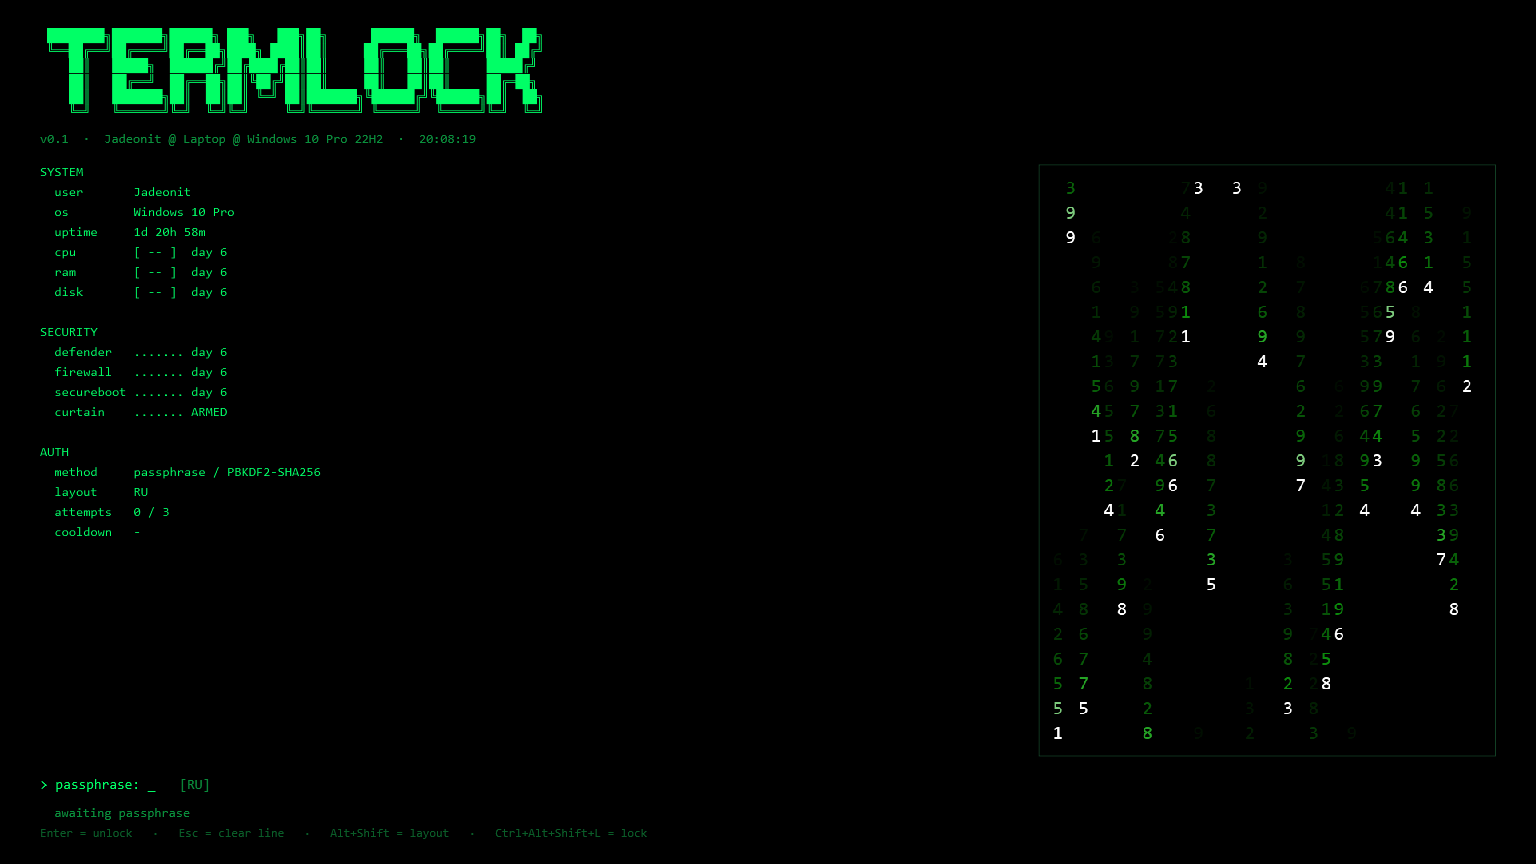
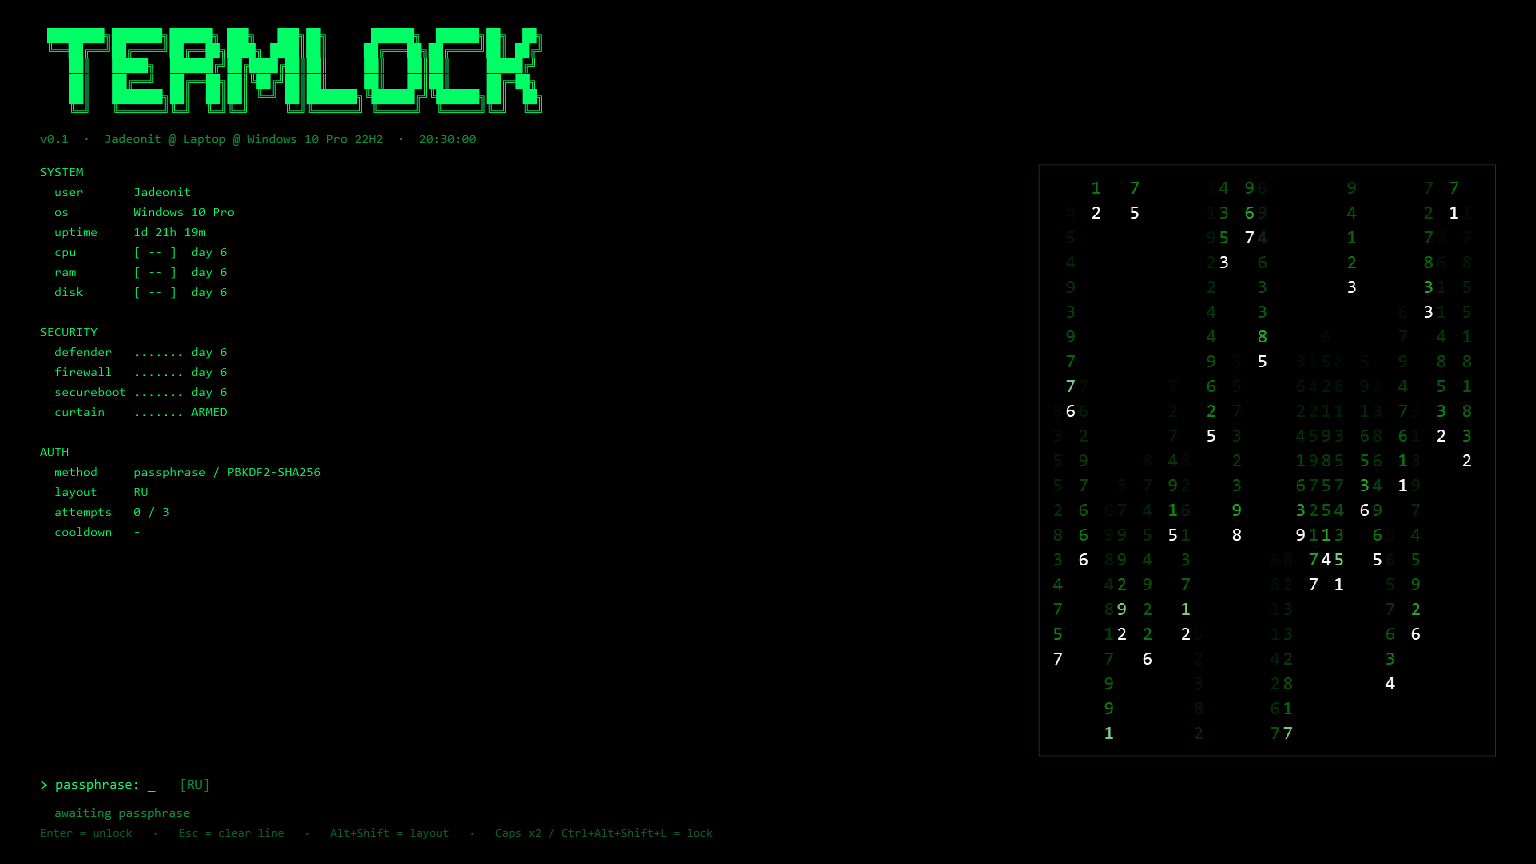
feat(guard): block escape keys and add double-Caps trigger
Install a low-level keyboard hook while the curtain is visible: swallow Win, Alt+Tab, Alt+F4, Ctrl+Esc and PrintScreen. Double-tap Caps Lock summons the curtain. Watchdog stays in the backlog.

diff --git a/src/TermLock/UI/MainWindow.xaml b/src/TermLock/UI/MainWindow.xaml
@@ -104,6 +104,6 @@
                    Margin="0,6,0,0"
                    FontSize="12"
                    Foreground="#0A5C28"
-                   Text="Enter = unlock   ·   Esc = clear line   ·   Alt+Shift = layout   ·   Ctrl+Alt+Shift+L = lock" />
+                   Text="Enter = unlock   ·   Esc = clear line   ·   Alt+Shift = layout   ·   Caps x2 / Ctrl+Alt+Shift+L = lock" />
     </Grid>
 </Window>

diff --git a/src/TermLock/Platform/KeyboardHook.cs b/src/TermLock/Platform/KeyboardHook.cs
@@ -1,0 +1,164 @@
+using System.Runtime.InteropServices;
+using TermLock.Core;
+
+namespace TermLock.Platform;
+
+/// <summary>
+/// Global low-level keyboard hook (WH_KEYBOARD_LL).
+///
+/// While the curtain is visible it swallows the keys that would let a casual
+/// user escape it: Win, Alt+Tab, Alt+F4, Ctrl+Esc and PrintScreen.
+/// It does NOT and cannot block Ctrl+Alt+Del.
+///
+/// While unlocked the hook only watches for a double-tap of Caps Lock, which
+/// is an alternative way to summon the curtain.
+/// </summary>
+public sealed class KeyboardHook : IDisposable
+{
+    private const int WhKeyboardLl = 13;
+    private const int WmKeyDown = 0x0100;
+    private const int WmKeyUp = 0x0101;
+    private const int WmSysKeyDown = 0x0104;
+    private const int WmSysKeyUp = 0x0105;
+
+    private const int VkTab = 0x09;
+    private const int VkEscape = 0x1B;
+    private const int VkCapital = 0x14;
+    private const int VkMenu = 0x12;    // Alt
+    private const int VkControl = 0x11; // Ctrl
+    private const int VkLWin = 0x5B;
+    private const int VkRWin = 0x5C;
+    private const int VkApps = 0x5D;
+    private const int VkF4 = 0x73;
+    private const int VkSnapshot = 0x2C;
+
+    private const int DoubleCapsWindowMs = 400;
+
+    private readonly Func<bool> _isLocked;
+    private readonly Action _onDoubleCaps;
+    private readonly HookProc _proc;
+    private IntPtr _hook;
+    private long _lastCapsDown;
+    private bool _capsHeld;
+
+    public KeyboardHook(Func<bool> isLocked, Action onDoubleCaps)
+    {
+        _isLocked = isLocked;
+        _onDoubleCaps = onDoubleCaps;
+        _proc = HookCallback;
+
+        _hook = SetWindowsHookEx(WhKeyboardLl, _proc, GetModuleHandle(null), 0);
+        if (_hook == IntPtr.Zero)
+        {
+            Log.Write("keyboard hook failed: " + Marshal.GetLastWin32Error());
+        }
+        else
+        {
+            Log.Write("keyboard hook installed");
+        }
+    }
+
+    private IntPtr HookCallback(int nCode, IntPtr wParam, IntPtr lParam)
+    {
+        if (nCode >= 0)
+        {
+            var message = wParam.ToInt32();
+            var info = Marshal.PtrToStructure<KbdLlHookStruct>(lParam);
+            var vk = (int)info.vkCode;
+
+            if (message == WmKeyDown || message == WmSysKeyDown)
+            {
+                if (vk == VkCapital && !_capsHeld)
+                {
+                    _capsHeld = true;
+                    var now = Environment.TickCount64;
+
+                    if (now - _lastCapsDown <= DoubleCapsWindowMs)
+                    {
+                        _lastCapsDown = 0;
+                        _onDoubleCaps();
+                    }
+                    else
+                    {
+                        _lastCapsDown = now;
+                    }
+                }
+
+                if (_isLocked() && IsBlocked(vk))
+                {
+                    return (IntPtr)1;
+                }
+            }
+            else if ((message == WmKeyUp || message == WmSysKeyUp) && vk == VkCapital)
+            {
+                _capsHeld = false;
+            }
+        }
+
+        return CallNextHookEx(_hook, nCode, wParam, lParam);
+    }
+
+    private static bool IsBlocked(int vk)
+    {
+        if (vk is VkLWin or VkRWin or VkApps or VkSnapshot)
+        {
+            return true;
+        }
+
+        if (vk == VkTab && IsDown(VkMenu))
+        {
+            return true; // Alt+Tab
+        }
+
+        if (vk == VkEscape && IsDown(VkControl))
+        {
+            return true; // Ctrl+Esc
+        }
+
+        if (vk == VkF4 && IsDown(VkMenu))
+        {
+            return true; // Alt+F4
+        }
+
+        return false;
+    }
+
+    private static bool IsDown(int vk) => (GetAsyncKeyState(vk) & 0x8000) != 0;
+
+    public void Dispose()
+    {
+        if (_hook != IntPtr.Zero)
+        {
+            UnhookWindowsHookEx(_hook);
+            _hook = IntPtr.Zero;
+            Log.Write("keyboard hook removed");
+        }
+    }
+
+    private delegate IntPtr HookProc(int nCode, IntPtr wParam, IntPtr lParam);
+
+    [StructLayout(LayoutKind.Sequential)]
+    private struct KbdLlHookStruct
+    {
+        public uint vkCode;
+        public uint scanCode;
+        public uint flags;
+        public uint time;
+        public IntPtr dwExtraInfo;
+    }
+
+    [DllImport("user32.dll", SetLastError = true)]
+    private static extern IntPtr SetWindowsHookEx(int idHook, HookProc lpfn, IntPtr hMod, uint dwThreadId);
+
+    [DllImport("user32.dll", SetLastError = true)]
+    private static extern bool UnhookWindowsHookEx(IntPtr hhk);
+
+    [DllImport("user32.dll")]
+    private static extern IntPtr CallNextHookEx(IntPtr hhk, int nCode, IntPtr wParam, IntPtr lParam);
+
+    [DllImport("kernel32.dll", CharSet = CharSet.Auto, SetLastError = true)]
+    private static extern IntPtr GetModuleHandle(string? lpModuleName);
+
+    [DllImport("user32.dll")]
+    private static extern short GetAsyncKeyState(int vKey);
+}

diff --git a/src/TermLock/UI/MainWindow.xaml.cs b/src/TermLock/UI/MainWindow.xaml.cs
@@ -6,6 +6,7 @@ using System.Windows.Media.Imaging;
 using System.Windows.Input;
 using System.Windows.Threading;
 using TermLock.Core;
+using TermLock.Platform;
 using KeyEventArgs = System.Windows.Input.KeyEventArgs;
 
 namespace TermLock.UI;
@@ -21,6 +22,7 @@ public partial class MainWindow : Window
     private readonly DispatcherTimer _clock;
     private readonly DispatcherTimer _cursorBlink;
     private readonly DispatcherTimer _keepOnTop;
+    private readonly KeyboardHook _keyboard;
 
     private int _attempts;
     private DateTime _cooldownUntil = DateTime.MinValue;
@@ -41,6 +43,8 @@ public partial class MainWindow : Window
     {
         InitializeComponent();
         _config = config;
+
+        _keyboard = new KeyboardHook(() => IsVisible, ShowLock);
 
         _clock = new DispatcherTimer(
             TimeSpan.FromSeconds(1),
@@ -239,6 +243,7 @@ AUTH
 
     protected override void OnClosed(EventArgs e)
     {
+        _keyboard.Dispose();
         InputLanguageManager.Current.InputLanguageChanged -= OnInputLanguageChanged;
         base.OnClosed(e);
     }

diff --git a/docs/SECURITY.md b/docs/SECURITY.md
@@ -32,8 +32,9 @@ TermLock — **ширма от любопытных домашних**, а не 
 
 - закрывает весь виртуальный рабочий стол topmost-окном;
 - не даёт закрыть окно через `Alt+F4`;
-- (Day 5) перехватывает `Win`, `Alt+Tab`, `Alt+F4`, `Win+D`, `Win+Tab`;
-- (Day 5) сторожевой процесс поднимает ширму, если её убили;
+- перехватывает `Win`, `Alt+Tab`, `Alt+F4`, `Ctrl+Esc`, `PrintScreen`;
+- открывается по двойному нажатию Caps Lock;
+- (позже) сторожевой процесс поднимает ширму, если её убили;
 - требует фразу, хэш которой лежит в конфиге;
 - (Day 7) добавляет USB-ключ и recovery-код;
 - (Day 8) шлёт уведомление и, по настройке, выключает/усыпляет ПК после
@@ -52,7 +53,8 @@ TermLock — **ширма от любопытных домашних**, а не 
 
 | Обход | Реальность | Мера |
 |---|---|---|
-| `Ctrl+Alt+Del` → Диспетчер задач → снять процесс | работает | watchdog (Day 5), но админ всё равно победит |
+| `Ctrl+Alt+Del` → Диспетчер задач → снять процесс | работает | watchdog (позже), но админ всё равно победит |
+| `Win` / `Alt+Tab` / `Alt+F4` / `Ctrl+Esc` / `PrintScreen` | не работают, пока ширма видна | низкоуровневый хук `WH_KEYBOARD_LL` |
 | Выйти из сессии / перезагрузиться | работает | автозапуск вернёт ширму после входа |
 | Другой пользователь Windows | работает, но он не видит твои файлы | не давать админку другим |
 | Safe Mode | работает | не считается атакой в домашнем сценарии |

diff --git a/README.md b/README.md
@@ -25,6 +25,8 @@ laptop, useless against someone who knows what they are doing. See
 - passphrase unlock (`PBKDF2-HMAC-SHA256`, 600 000 iterations, random salt)
 - header prompt (`<name> @ <device> @ <Windows version>`, e.g. `Jadeonit @ Laptop @ Windows 10 Pro 22H2`); the SYSTEM block shows the account name and `Windows 10 Pro`
 - keyboard layout badge `[EN]` / `[RU]` with `CAPS` and `CYR` warnings
+- keyboard guard while locked: `Win`, `Alt+Tab`, `Alt+F4`, `Ctrl+Esc`, `PrintScreen`
+- double-tap `Caps Lock` to summon the curtain
 - attempt counter with a cooldown
 - tray icon: lock / set profile / open config folder / exit
 - autostart via `HKCU\...\Run` (no admin, no service, no driver)
@@ -34,8 +36,6 @@ laptop, useless against someone who knows what they are doing. See
 ### Planned
 
 - real system probes: CPU, RAM, disk, Defender, firewall, Secure Boot
-- keyboard hook: block `Win`, `Alt+Tab`, `Alt+F4` while locked
-- double-tap Caps Lock trigger
 - watchdog process
 - USB key unlock
 - recovery code
@@ -136,6 +136,7 @@ registry will point at the SDK host instead of TermLock.
 | Keys | Action |
 |---|---|
 | `Ctrl+Alt+Shift+L` | show the curtain |
+| `Caps Lock` ×2 | show the curtain (when unlocked) |
 | `Esc` | clear the input line (never unlocks) |
 | `Ctrl+U` | clear the input line |
 | `Enter` | check the passphrase |
@@ -144,8 +145,9 @@ registry will point at the SDK host instead of TermLock.
 The prompt also shows `CAPS` when Caps Lock is on and `CYR` when the typed
 passphrase contains Cyrillic characters. Both are warnings, not blocks.
 
-While the curtain is visible it is topmost, covers every monitor, and refuses
-`Alt+F4`. It does not block `Ctrl+Alt+Del` — nothing user-mode can.
+While the curtain is visible it is topmost, covers every monitor, and swallows
+`Win`, `Alt+Tab`, `Alt+F4`, `Ctrl+Esc` and `PrintScreen`. It does not block
+`Ctrl+Alt+Del` — nothing user-mode can.
 
 ## Where things live
 

diff --git a/docs/CODE.md b/docs/CODE.md
@@ -301,3 +301,31 @@ Get-Content "$env:APPDATA\TermLock\logs\termlock.log" -Tail 20
 
 `CAPS` и `CYR` подсвечиваются жёлтым, но ничего не блокируют: это подсказка,
 а не запрет. Проверка фразы всё равно идёт по хэшу.
+
+## 13. Клавиатурный щит
+
+`Platform/KeyboardHook.cs` ставит низкоуровневый хук `WH_KEYBOARD_LL`:
+
+```csharp
+SetWindowsHookEx(WH_KEYBOARD_LL, _proc, GetModuleHandle(null), 0);
+```
+
+Пока ширма видна, колбэк возвращает `1` для:
+
+- `VK_LWIN` / `VK_RWIN` — заодно отваливаются `Win+D`, `Win+Tab`, `Win+Shift+S`;
+- `VK_TAB` при зажатом Alt — `Alt+Tab`;
+- `VK_F4` при зажатом Alt — `Alt+F4`;
+- `VK_ESCAPE` при зажатом Ctrl — `Ctrl+Esc`;
+- `VK_SNAPSHOT` — PrintScreen.
+
+`Ctrl+Alt+Del` не блокируется: это secure attention sequence, user-mode до неё
+не достаёт.
+
+Двойной Caps:
+
+- хук запоминает время первого `VK_CAPITAL`;
+- второй в течение 400 мс вызывает `ShowLock()`;
+- `_capsHeld` не даёт автоповтору зажатой клавиши сработать как двойной тап;
+- оба нажатия проходят дальше, поэтому состояние Caps Lock в итоге не меняется.
+
+Хук смотрит только коды клавиш. Текст пароля он не читает и никуда не пишет.

diff --git a/ROADMAP.md b/ROADMAP.md
@@ -9,7 +9,7 @@ slice that builds, runs, and can be tested on the real machine.
 | 2 | Animated matrix rain (glyph atlas + `WriteableBitmap`) | `feat(render): matrix rain` |
 | 3 | Terminal layout polish, multi-monitor, DPI, cursor/status line | `feat(ui): lock screen layout` |
 | 4 | Auth hardening: attempt policy, cooldown timer, config migration | `feat(auth): passphrase policy` |
-| 5 | Keyboard hook: block `Win`/`Alt+Tab`/`Alt+F4`, double Caps, watchdog | `feat(guard): keyboard hook + watchdog` |
+| 5 | Keyboard guard: block `Win`/`Alt+Tab`/`Alt+F4`/`Ctrl+Esc`/`PrintScreen`, double Caps | `feat(guard): keyboard hook + double Caps` |
 | 6 | Real stats: CPU, RAM, disk, Defender, firewall, Secure Boot | `feat(stats): system probes` |
 | 7 | USB key unlock, recovery code, first-run wizard | `feat(auth): usb key + recovery` |
 | 8 | ntfy alerts, configurable fail action (Shutdown by default) | `feat(notify): alerts + fail action` |
@@ -19,6 +19,7 @@ slice that builds, runs, and can be tested on the real machine.
 ## Backlog
 
 - [ ] guest passphrase → harmless "Study Mode" decoy screen
+- [ ] watchdog process (relaunch the curtain if the UI process dies)
 - [ ] optional intruder log (webcam photo, local only)
 - [ ] themes: terminal / BIOS / Windows Update
 - [ ] mechanical keyboard sounds (opt-in)
@@ -30,3 +31,4 @@ slice that builds, runs, and can be tested on the real machine.
 
 - [x] Day 1 — scaffold, curtain window, hotkey, passphrase, tray, autostart
 - [x] Day 2 — animated digit rain (glyph atlas + `WriteableBitmap`, 30 FPS)
+- [x] Day 5 — keyboard guard + double Caps

diff --git a/docs/ARCHITECTURE.md b/docs/ARCHITECTURE.md
@@ -107,6 +107,22 @@ paste, and keyboard layouts without reimplementing a text editor.
 
 `Esc` and `Ctrl+U` clear the line. `Enter` verifies. `Esc` never unlocks.
 
+## Keyboard guard
+
+`Platform/KeyboardHook.cs` installs a low-level `WH_KEYBOARD_LL` hook on the UI
+thread. While the curtain is visible it swallows:
+
+- `Win` (both keys) — which also kills `Win+D`, `Win+Tab`, `Win+Shift+S`;
+- `Alt+Tab`;
+- `Alt+F4`;
+- `Ctrl+Esc` (Start menu);
+- `PrintScreen`.
+
+It never blocks `Ctrl+Alt+Del` — that is the secure attention sequence and
+user-mode cannot intercept it. While unlocked, the hook only watches for a
+double-tap of Caps Lock; both presses pass through, so the Caps state ends where
+it started. The hook inspects virtual-key codes only; it never stores text.
+
 ## Matrix renderer
 
 `UI/MatrixRain.cs` is a small terminal-style renderer:
